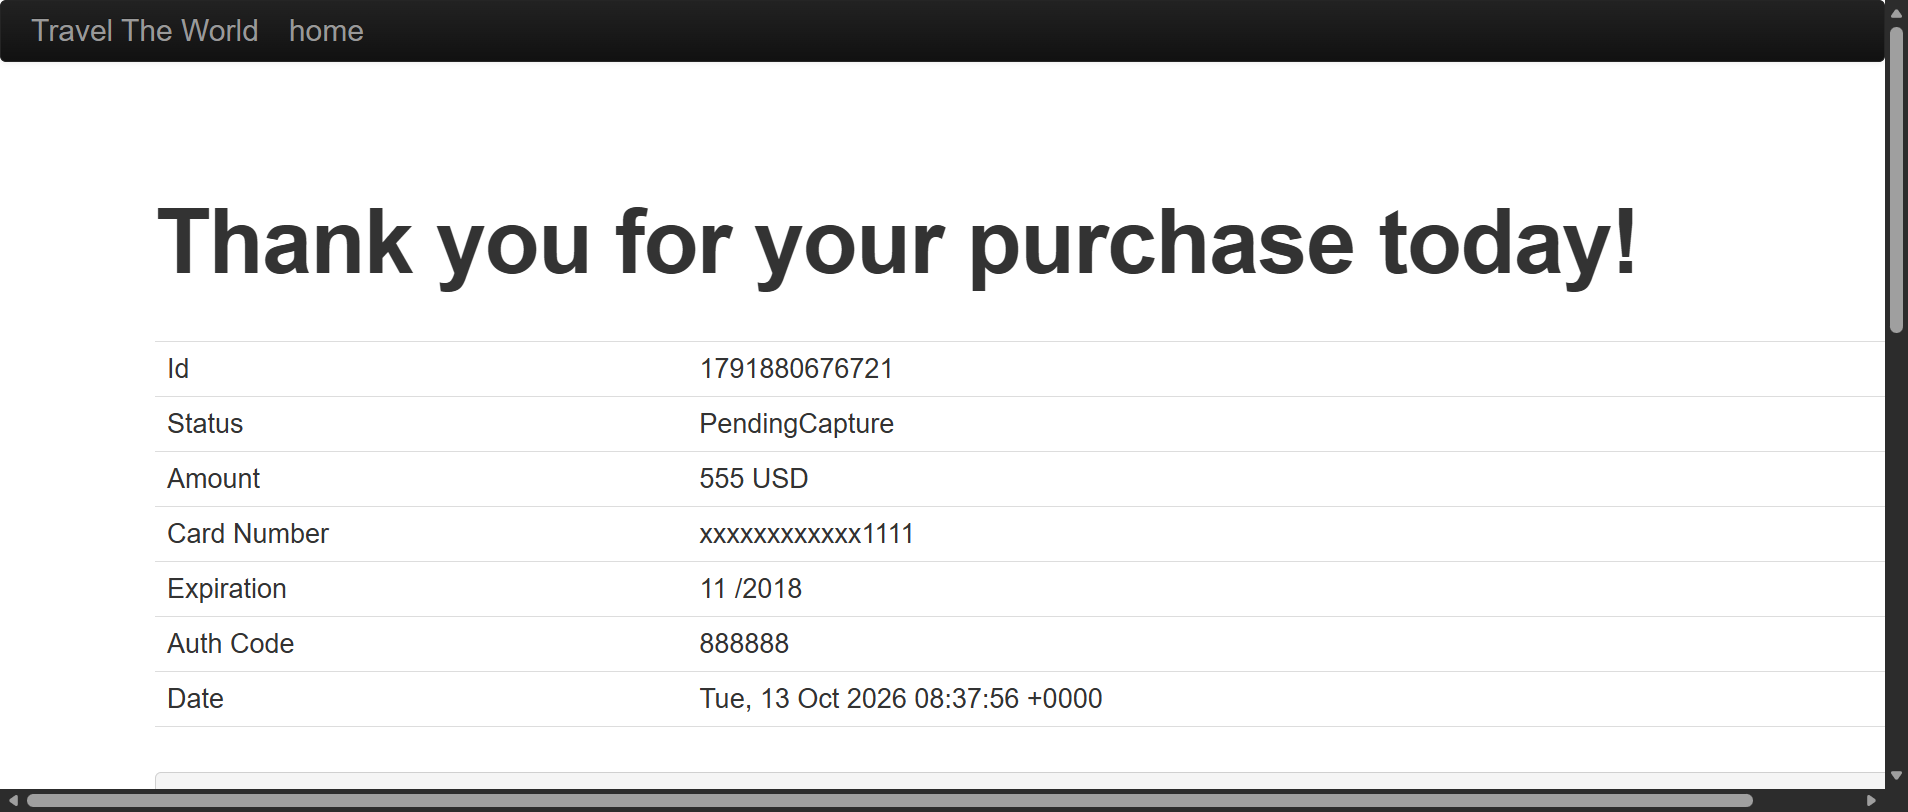
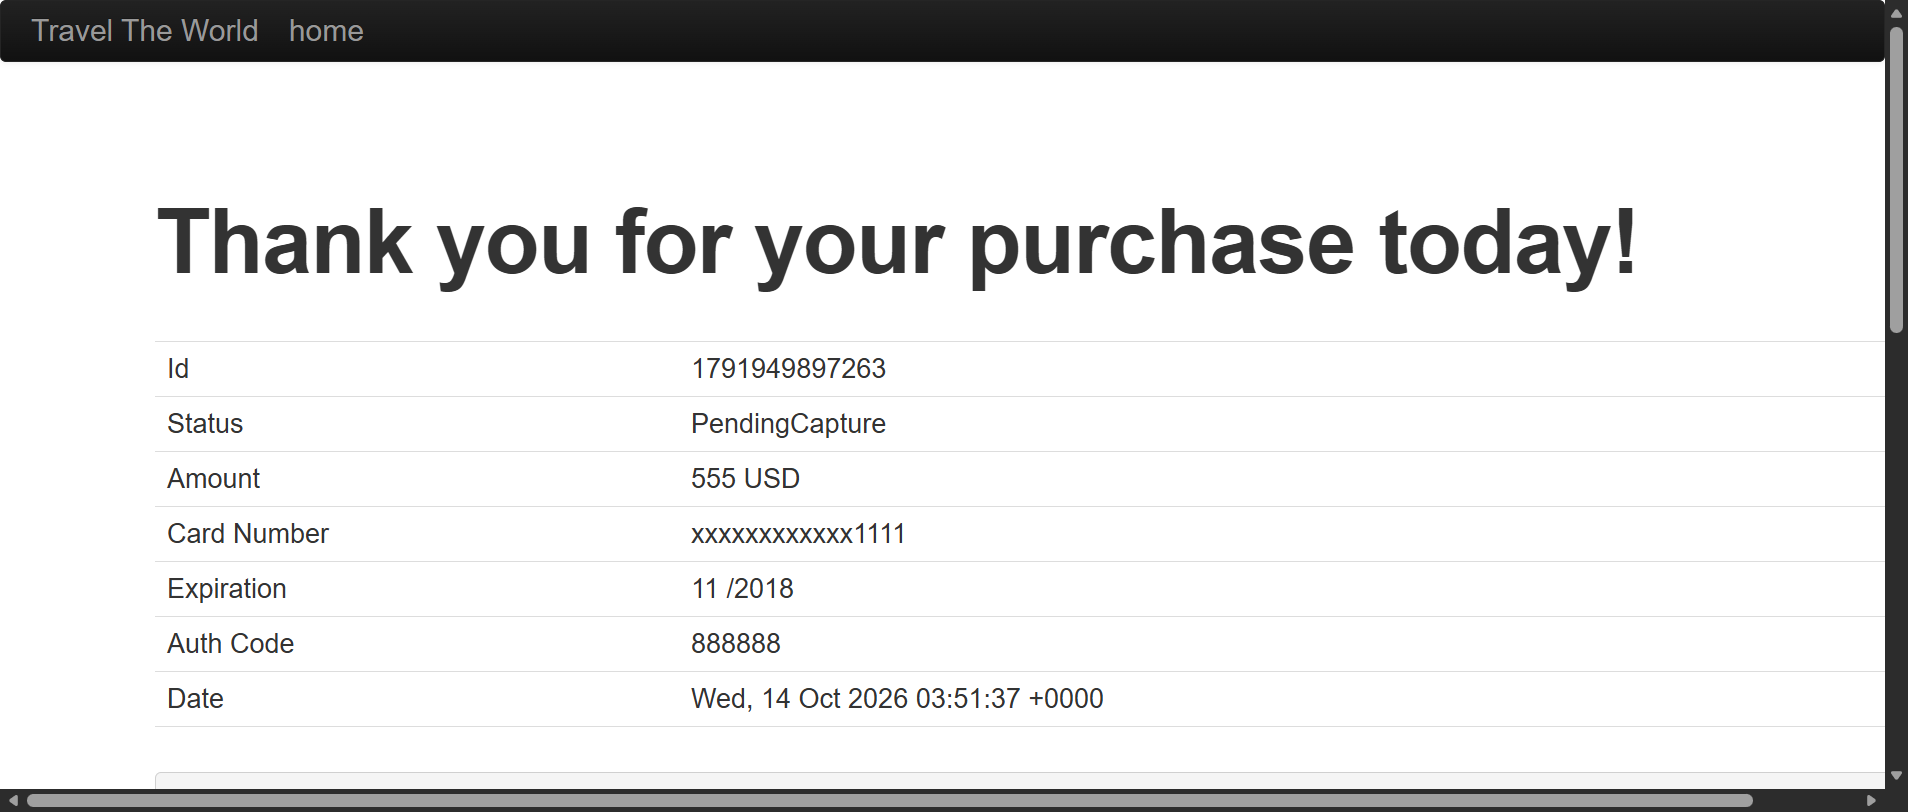
Keyboard Interactions

diff --git a/src/main/java/Test/Selenium_automation/BlazeDemoTask.java b/src/main/java/Test/Selenium_automation/BlazeDemoTask.java
@@ -6,9 +6,11 @@ import java.io.File;
 import java.io.IOException;
 
 import org.openqa.selenium.By;
+import org.openqa.selenium.Keys;
 import org.openqa.selenium.OutputType;
 import org.openqa.selenium.WebElement;
 import org.openqa.selenium.edge.EdgeDriver;
+import org.openqa.selenium.interactions.Actions;
 import org.openqa.selenium.support.ui.Select;
 
 import com.google.common.io.Files;
@@ -20,14 +22,18 @@ public class BlazeDemoTask {
 		
 		d.manage().window().maximize();
 		
+		Actions act = new Actions(d);
+		
 		//get url
 		d.get("https://blazedemo.com/purchase.php");
 		
 		//name field
-		d.findElement(By.id("inputName")).sendKeys("Chintamani");
-		
+		WebElement name = d.findElement(By.id("inputName"));
+		act.click(name).sendKeys("Chintamani").perform();
+		System.out.println(d.getCurrentUrl());
 		//address field
-		d.findElement(By.xpath("//input[@id='address']")).sendKeys("MG Road, Shivajinagar");
+		WebElement address = d.findElement(By.id("address"));
+		act.click(address).sendKeys("MG Road, Shivajinagar").perform();	
 		
 		//city field
 		d.findElement(By.cssSelector("input[id='city']")).sendKeys("Pune");
@@ -74,8 +80,28 @@ public class BlazeDemoTask {
 		Files.copy(src, Dest);
 		
 		
+		d.findElement(By.linkText("home")).click();
+		
+		WebElement register = d.findElement(By.linkText("Register"));
+		act.click(register).perform();
+		
+		WebElement Reg_name = d.findElement(By.id("name"));
+		act.click(Reg_name).sendKeys("Chintamani").perform();
+		
+		WebElement company = d.findElement(By.id("company"));
+		act.click(company).sendKeys("Accenture").perform();
+		
+		act.click(d.findElement(By.id("email"))).sendKeys("chintamani@gmail.com").perform();
+		
+		act.click(d.findElement(By.id("password"))).click().sendKeys("PAss2123").perform();
+		
+		//act.click(address.findElement(By.id("password-confirm"))).sendKeys("PAss2123").perform();
+		d.findElement(By.id("password-confirm")).sendKeys("PAss2123");
+		
+		act.click().sendKeys(Keys.ENTER).perform();
+		
 		Thread.sleep(5000);
-		d.close();
+		//d.close();
 		
 		
 

diff --git a/src/main/java/Test/Selenium_automation/KeyboardInteraction.java b/src/main/java/Test/Selenium_automation/KeyboardInteraction.java
@@ -1,0 +1,55 @@
+package Test.Selenium_automation;
+
+import org.openqa.selenium.By;
+import org.openqa.selenium.Keys;
+import org.openqa.selenium.WebElement;
+import org.openqa.selenium.edge.EdgeDriver;
+import org.openqa.selenium.interactions.Actions;
+
+public class KeyboardInteraction {
+
+	public static void main(String[] args) {
+		EdgeDriver d = new EdgeDriver();
+		d.manage().window().maximize();
+		
+		d.get("https://testautomationpractice.blogspot.com/");
+		WebElement search = d.findElement(By.id("Wikipedia1_wikipedia-search-input"));
+		
+		search.sendKeys("Chintamani");
+		
+		//pressing enter in keyboard
+		search.sendKeys(Keys.ENTER);
+		
+		//selecting all content which entered in search field
+		search.sendKeys(Keys.CONTROL+"A");
+		
+		//Copying content from search box
+		search.sendKeys(Keys.CONTROL+"C");
+		
+		//pasting content from search field to name field
+		WebElement name = d.findElement(By.id("name"));
+		name.sendKeys(Keys.CONTROL+"v");
+		
+		//pressing start button
+		WebElement button = d.findElement(By.xpath("//button[@name='start']"));
+		System.out.println("Is button displays :"+button.isDisplayed());
+		System.out.println("button Text :"+button.getText());
+		button.click();
+		System.out.println("button Text :"+button.getText());
+		
+		
+		//hovering over button
+		WebElement pointmeButton = d.findElement(By.xpath("//button[@class='dropbtn']"));
+		Actions act = new Actions(d);
+		act.moveToElement(pointmeButton).perform();
+		String h = pointmeButton.getText();
+		System.out.println(h);
+		
+		
+		
+		
+		
+
+	}
+
+}
